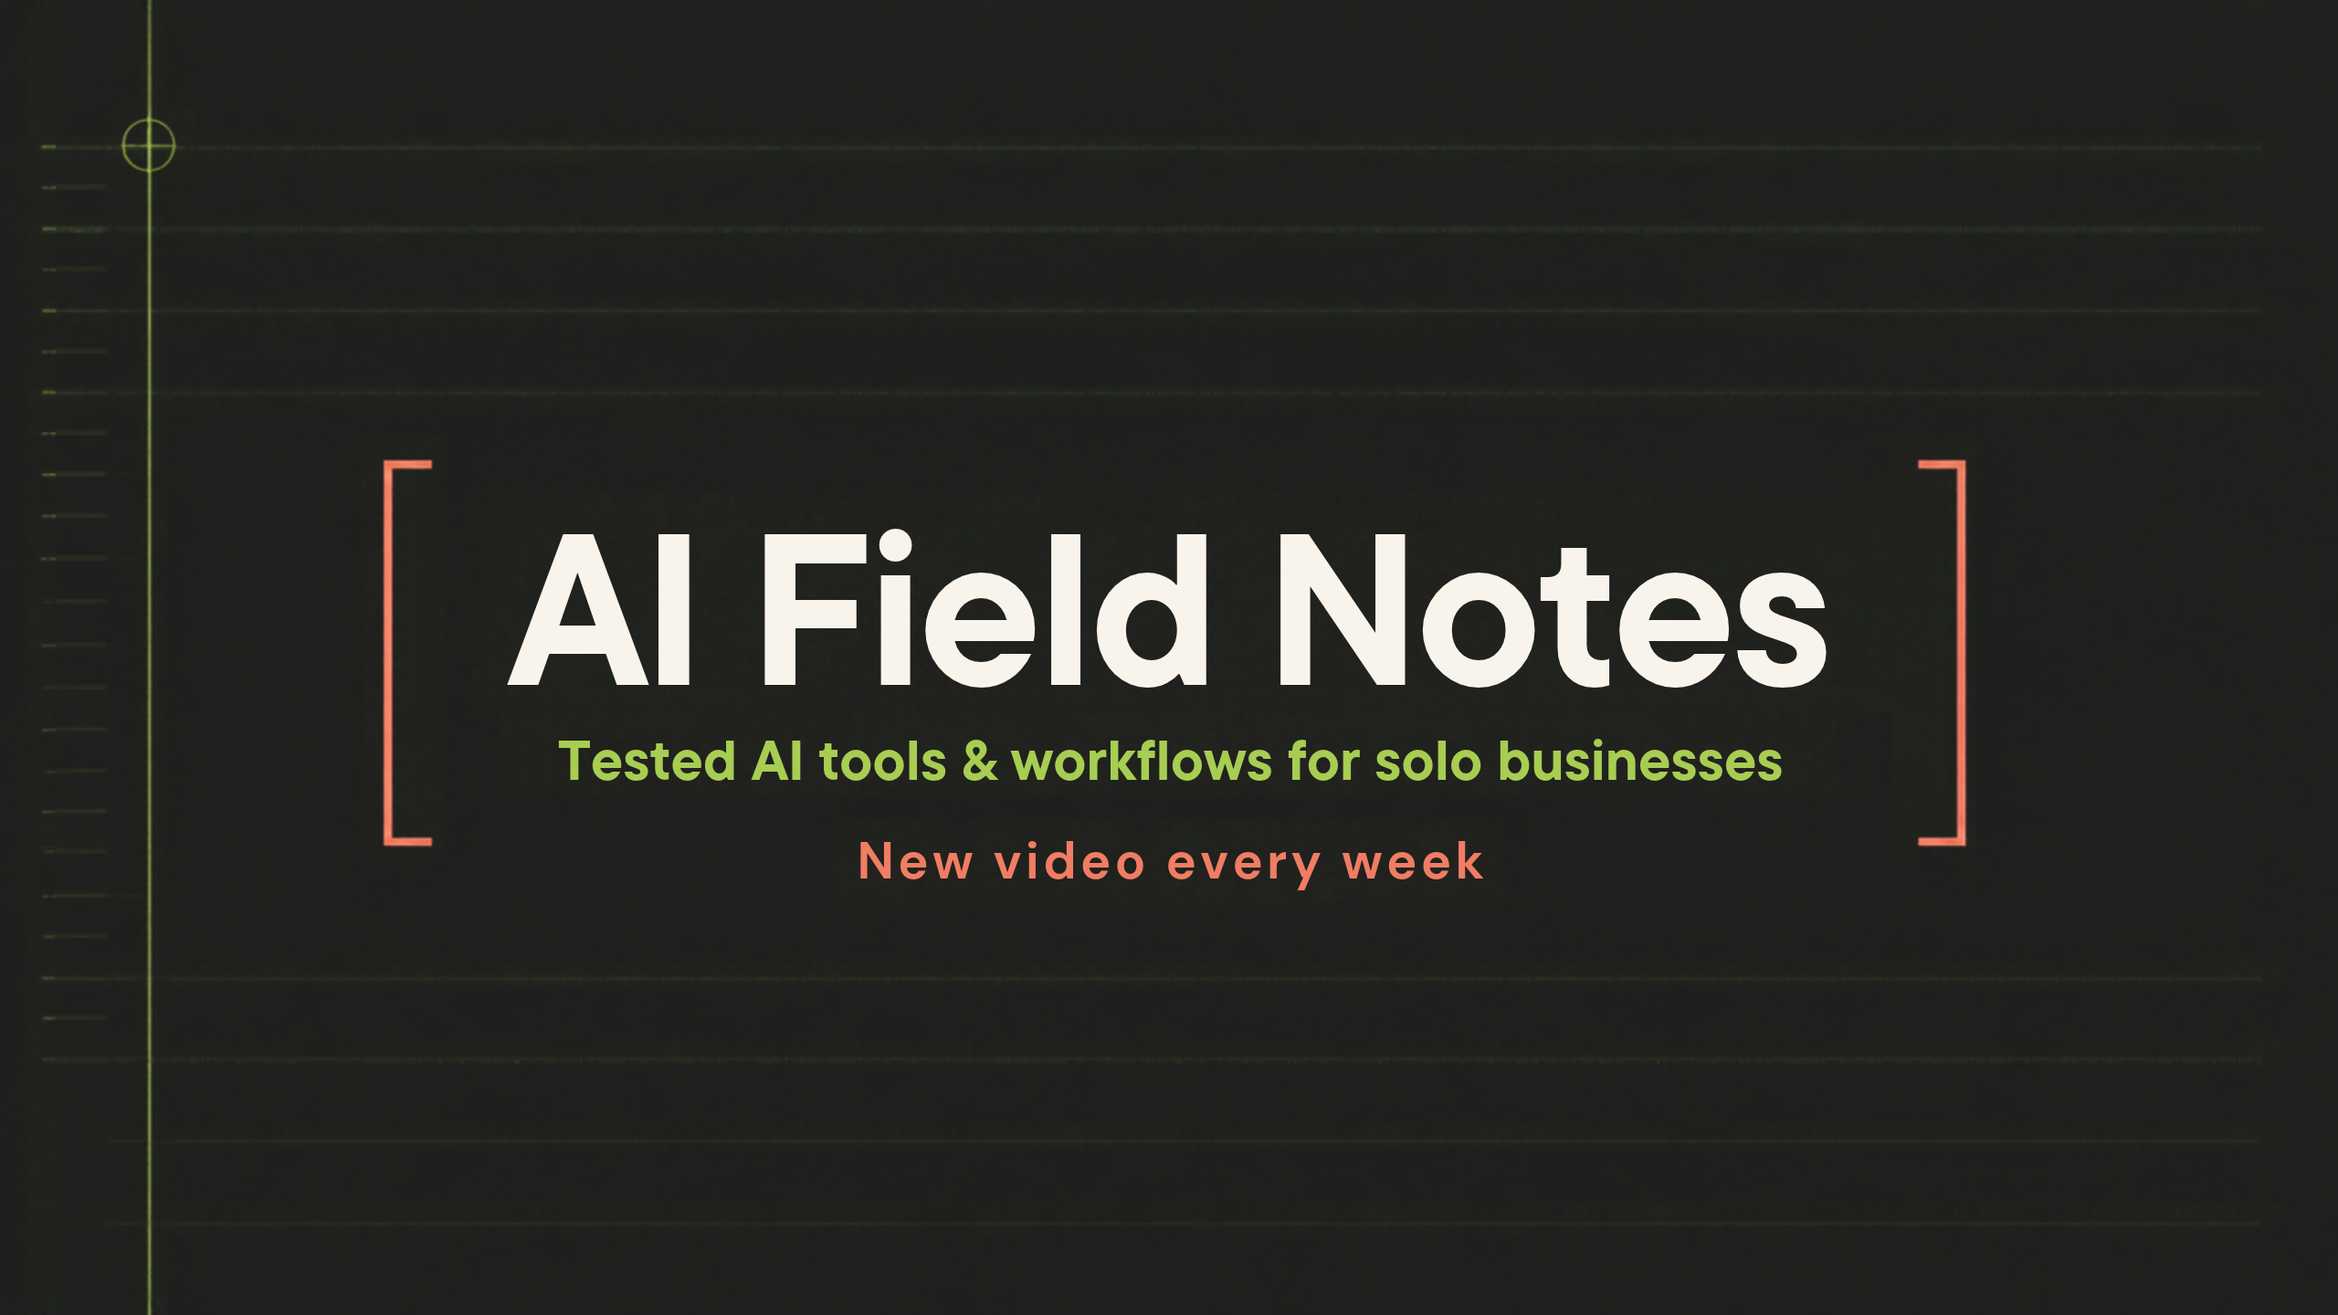
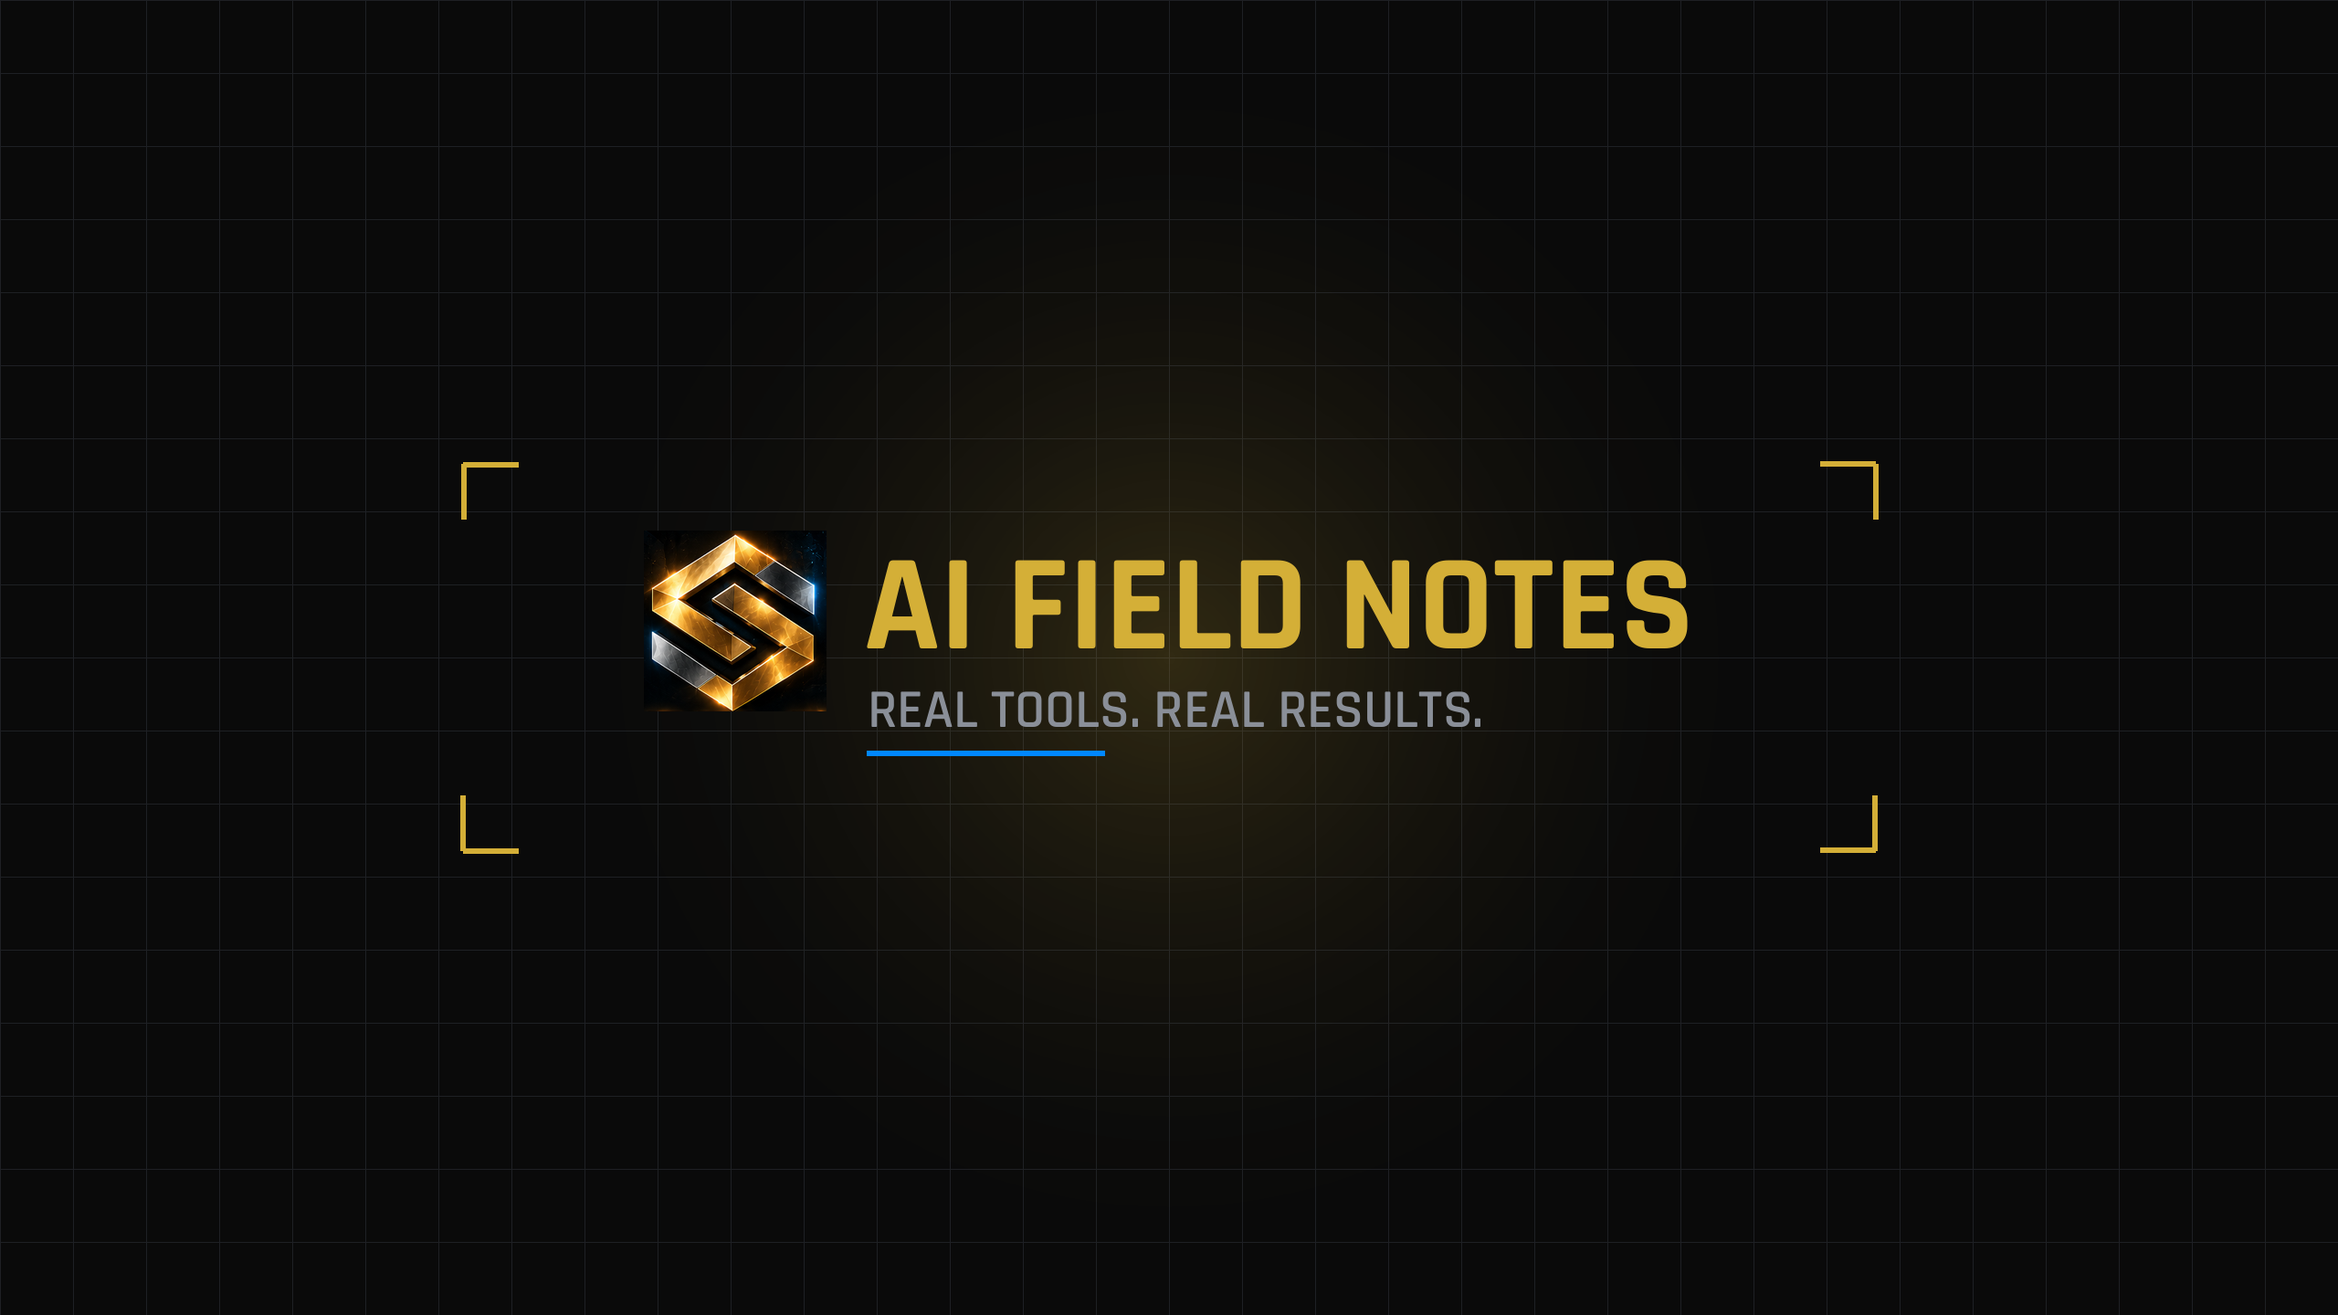
Rebrand the video factory and channel art to the SOLO brand lock
All channel content now uses the approved palette (charcoal, steel, gold,
electric blue), Rajdhani/Inter type and the approved business emblem
(only ever scaled down). Montra Bold is used automatically once its font
file is supplied. Replaces the lime/coral banner and profile picture.

Claude-Session: https://claude.ai/code/session_01XzpsdvXYS5fNBbXZsotX7v

diff --git a/marketing/youtube/factory/render.py b/marketing/youtube/factory/render.py
@@ -52,13 +52,20 @@ GAP_SECONDS = 0.18          # pause between segments
 TAIL_SECONDS = 0.6          # hold on the last frame
 CAPTION_WORDS = 4           # words shown per caption chunk
 
-BG = (24, 25, 28)
-RULE = (38, 40, 44)
-MARGIN = (90, 52, 46)
-INK = (246, 243, 236)
-DIM = (150, 150, 146)
-LIME = (184, 230, 62)
-CORAL = (247, 104, 84)
+# SOLO brand lock palette (ai-download-center/docs/SOLO-BRAND-LOCK.md):
+# charcoal #0A0A0A, weathered steel #8A8F98, burnished gold #D4AF37,
+# restrained electric blue #0087FF. INK is the light text colour for contrast.
+BG = (10, 10, 10)
+RULE = (30, 32, 36)          # faint steel grid
+INK = (238, 238, 234)
+DIM = (138, 143, 152)        # weathered steel
+GOLD = (212, 175, 55)
+BLUE = (0, 135, 255)
+GOLD_DARK = (58, 48, 15)     # caption highlight behind the gold word
+
+# Approved business emblem: a small source crop (285x282), so it is only ever
+# scaled down, never enlarged. See docs/SOLO-BRAND-LOCK.md.
+EMBLEM = HERE.parents[2] / "powerhouse-website" / "assets" / "approved-stage" / "business-emblem.png"
 
 DEFAULT_VOICE = HERE / ".cache" / "voices" / "en_US-joe-medium.onnx"
 FONT_DIRS = [Path("/usr/share/fonts/opentype/inter"), HERE / ".cache" / "fonts"]
@@ -69,14 +76,27 @@ def find_font(name: str) -> str:
         p = d / name
         if p.exists():
             return str(p)
-    sys.exit(f"Font {name} not found. Install Inter (see README.md).")
+    sys.exit(f"Font {name} not found. Run setup.sh (Inter and Rajdhani, see README.md).")
 
 
-F_BRAND = ImageFont.truetype(find_font("Inter-Bold.otf"), 40)
-F_PILLAR = ImageFont.truetype(find_font("Inter-SemiBold.otf"), 34)
-F_HEAD = ImageFont.truetype(find_font("InterDisplay-Bold.otf"), 104)
-F_CAP = ImageFont.truetype(find_font("Inter-Bold.otf"), 66)
+# Brand type: headline Montra Bold (no font file available yet, so Rajdhani
+# Bold stands in), subheading Rajdhani SemiBold, body Inter.
+HEAD_FONT = next((n for n in ("Montra-Bold.otf", "Montra-Bold.ttf", "Montra Bold.otf")
+                  if any((d / n).exists() for d in FONT_DIRS)), "Rajdhani-Bold.ttf")
+F_BRAND = ImageFont.truetype(find_font("Rajdhani-Bold.ttf"), 46)
+F_PILLAR = ImageFont.truetype(find_font("Rajdhani-SemiBold.ttf"), 38)
+F_HEAD = ImageFont.truetype(find_font(HEAD_FONT), 120)
+F_CAP = ImageFont.truetype(find_font("Inter-SemiBold.otf"), 66)
 F_SMALL = ImageFont.truetype(find_font("Inter-Medium.otf"), 32)
+
+
+def emblem(size: int) -> Image.Image:
+    """The approved business emblem, scaled down to fit a size x size box."""
+    img = Image.open(EMBLEM).convert("RGBA")
+    if size > max(img.size):
+        size = max(img.size)       # never enlarge the source crop
+    img.thumbnail((size, size), Image.LANCZOS)
+    return img
 
 
 def apply_format(name: str) -> None:
@@ -86,8 +106,8 @@ def apply_format(name: str) -> None:
         sys.exit(f"Unknown format {name!r}; use one of {sorted(FORMATS)}")
     L = FORMATS[name]
     W, H = L["size"]
-    F_HEAD = ImageFont.truetype(find_font("InterDisplay-Bold.otf"), L["head"])
-    F_CAP = ImageFont.truetype(find_font("Inter-Bold.otf"), L["cap"])
+    F_HEAD = ImageFont.truetype(find_font(HEAD_FONT), int(L["head"] * 1.15))
+    F_CAP = ImageFont.truetype(find_font("Inter-SemiBold.otf"), L["cap"])
 
 
 @dataclass
@@ -130,14 +150,23 @@ def wrap(draw: ImageDraw.ImageDraw, text: str, font: ImageFont.FreeTypeFont, wid
 def background(pillar: str) -> Image.Image:
     img = Image.new("RGB", (W, H), BG)
     d = ImageDraw.Draw(img)
-    for y in range(L["rule_top"], H - L["rule_bottom"], 72):   # ruled notebook lines
-        d.line([(60, y), (W - 60, y)], fill=RULE, width=2)
-    d.line([(118, L["rule_top"] - 60), (118, H - L["rule_bottom"] + 20)], fill=MARGIN, width=3)  # margin line
+    top, bottom = L["rule_top"] - 40, H - L["rule_bottom"] + 20
+    for y in range(top, bottom, 72):            # faint industrial grid
+        d.line([(60, y), (W - 60, y)], fill=RULE, width=1)
+    for x in range(60, W - 59, 72):
+        d.line([(x, top), (x, bottom)], fill=RULE, width=1)
+    k = 46                                      # gold corner brackets
+    for (x, y, sx, sy) in [(60, top, 1, 1), (W - 60, top, -1, 1), (60, bottom, 1, -1), (W - 60, bottom, -1, -1)]:
+        d.line([(x, y), (x + sx * k, y)], fill=GOLD, width=4)
+        d.line([(x, y), (x, y + sy * k)], fill=GOLD, width=4)
     by = L["brand_y"]
-    d.text((150, by), "AI FIELD NOTES", font=F_BRAND, fill=LIME)
+    mark = emblem(64)
+    img.paste(mark, (90, by - 10), mark)
+    d.text((90 + mark.width + 18, by - 2), "AI FIELD NOTES", font=F_BRAND, fill=GOLD)
     pw = d.textlength(pillar.upper(), font=F_PILLAR)
-    d.rounded_rectangle([W - 90 - pw - 36, by - 8, W - 90, by + 52], radius=30, outline=CORAL, width=3)
-    d.text((W - 90 - pw - 18, by + 2), pillar.upper(), font=F_PILLAR, fill=CORAL)
+    d.rectangle([W - 90 - pw - 36, by - 6, W - 90, by + 50], outline=DIM, width=2)
+    d.line([(W - 90 - pw - 36, by + 50), (W - 90, by + 50)], fill=BLUE, width=4)
+    d.text((W - 90 - pw - 18, by), pillar.upper(), font=F_PILLAR, fill=INK)
     return img
 
 
@@ -147,7 +176,7 @@ def glow_layer(size: int = 900, peak: int = 34) -> Image.Image:
     ys, xs = np.mgrid[0:size, 0:size]
     dist = np.sqrt((xs - r) ** 2 + (ys - r) ** 2) / r
     alpha = (np.clip(1 - dist, 0, 1) ** 2 * peak).astype(np.uint8)
-    layer = Image.new("RGBA", (size, size), LIME + (0,))
+    layer = Image.new("RGBA", (size, size), GOLD + (0,))
     layer.putalpha(Image.fromarray(alpha, "L"))
     return layer
 
@@ -155,7 +184,7 @@ def glow_layer(size: int = 900, peak: int = 34) -> Image.Image:
 def headline_layer(text: str) -> Image.Image:
     layer = Image.new("RGBA", (W, H), (0, 0, 0, 0))
     d = ImageDraw.Draw(layer)
-    lines = wrap(d, text, F_HEAD, W - L["head_w"])
+    lines = wrap(d, text.upper(), F_HEAD, W - L["head_w"])
     lh = L["head_lh"]
     top = L["head_y"] - (len(lines) * lh) // 2
     for i, line in enumerate(lines):
@@ -202,8 +231,8 @@ def draw_caption(d: ImageDraw.ImageDraw, words: list[tuple[str, float]], now: fl
         for i in line:
             active = start + i == idx
             if active:
-                d.rounded_rectangle([x - 12, y - 6, x + widths[i] + 12, y + L["cap"] + 16], radius=14, fill=(52, 60, 30))
-            d.text((x, y), texts[i], font=F_CAP, fill=LIME if active else INK)
+                d.rounded_rectangle([x - 12, y - 6, x + widths[i] + 12, y + L["cap"] + 16], radius=14, fill=GOLD_DARK)
+            d.text((x, y), texts[i], font=F_CAP, fill=GOLD if active else INK)
             x += widths[i] + space
         y += L["cap_lh"]
 
@@ -216,34 +245,41 @@ def stamp(seconds: float) -> str:
 
 
 def thumbnail(spec: dict, pillar: str) -> Image.Image:
-    """1280x720 thumbnail in the channel style: dark, one big phrase, lime and coral."""
+    """1280x720 thumbnail in the SOLO brand: charcoal, steel grid, gold headline, blue tag."""
     tw, th = 1280, 720
     img = Image.new("RGB", (tw, th), BG)
     d = ImageDraw.Draw(img)
-    for y in range(120, th - 40, 64):
-        d.line([(40, y), (tw - 40, y)], fill=RULE, width=2)
-    d.line([(96, 80), (96, th - 40)], fill=MARGIN, width=3)
-    glow = glow_layer(820, 60)
-    img.paste(glow, (tw - 760, -120), glow)
+    for y in range(40, th - 39, 64):
+        d.line([(40, y), (tw - 40, y)], fill=RULE, width=1)
+    for x in range(40, tw - 39, 64):
+        d.line([(x, 40), (x, th - 40)], fill=RULE, width=1)
+    glow = glow_layer(900, 46)
+    img.paste(glow, (tw - 820, -180), glow)
     d = ImageDraw.Draw(img)
-    f_kick = ImageFont.truetype(find_font("Inter-Bold.otf"), 34)
-    d.text((130, 56), spec.get("kicker", pillar).upper(), font=f_kick, fill=CORAL)
+    k = 54
+    for (x, y, sx, sy) in [(40, 40, 1, 1), (tw - 40, 40, -1, 1), (40, th - 40, 1, -1), (tw - 40, th - 40, -1, -1)]:
+        d.line([(x, y), (x + sx * k, y)], fill=GOLD, width=6)
+        d.line([(x, y), (x, y + sy * k)], fill=GOLD, width=6)
+    mark = emblem(84)
+    img.paste(mark, (96, 74), mark)
+    f_kick = ImageFont.truetype(find_font("Rajdhani-SemiBold.ttf"), 40)
+    d.text((96 + mark.width + 22, 92), spec.get("kicker", pillar).upper(), font=f_kick, fill=DIM)
     words = spec["text"].upper().split()
-    size = 200
-    while size > 80:
-        f = ImageFont.truetype(find_font("InterDisplay-Black.otf"), size)
-        lines = wrap(d, " ".join(words), f, tw - 260)
-        if len(lines) <= 2 and len(lines) * size * 1.05 <= th - 260:
+    size = 230
+    while size > 90:
+        f = ImageFont.truetype(find_font(HEAD_FONT), size)
+        lines = wrap(d, " ".join(words), f, tw - 220)
+        if len(lines) <= 2 and len(lines) * size * 0.95 <= th - 300:
             break
         size -= 8
-    y = (th - len(lines) * size * 1.05) / 2 + 30
+    y = (th - len(lines) * size * 0.95) / 2 + 20
     for i, line in enumerate(lines):
-        d.text((130, y + i * size * 1.05), line, font=f, fill=LIME if i == len(lines) - 1 else INK)
+        d.text((96, y + i * size * 0.95), line, font=f, fill=GOLD if i == len(lines) - 1 else INK)
     if spec.get("tag"):
-        f_tag = ImageFont.truetype(find_font("Inter-Bold.otf"), 40)
+        f_tag = ImageFont.truetype(find_font("Rajdhani-Bold.ttf"), 46)
         tw2 = d.textlength(spec["tag"].upper(), font=f_tag)
-        d.rounded_rectangle([130, th - 120, 130 + tw2 + 48, th - 52], radius=34, fill=CORAL)
-        d.text((154, th - 112), spec["tag"].upper(), font=f_tag, fill=BG)
+        d.rectangle([96, th - 136, 96 + tw2 + 48, th - 70], fill=BLUE)
+        d.text((120, th - 134), spec["tag"].upper(), font=f_tag, fill=INK)
     return img
 
 
@@ -324,13 +360,13 @@ def render_video(spec: dict, out_dir: Path, voice: Path, piper: str) -> Path:
             frame.paste(layer, (hx, hy + int(40 * (1 - ease))), layer)
             d = ImageDraw.Draw(frame)
             step = (chapter_of[si] or "").upper() if chapter_of[si] else f"{si + 1} / {len(segs)}"
-            d.text(((W - d.textlength(step, font=F_PILLAR)) / 2, L["step_y"]), step, font=F_PILLAR, fill=CORAL)
+            d.text(((W - d.textlength(step, font=F_PILLAR)) / 2, L["step_y"]), step, font=F_PILLAR, fill=BLUE)
             if now <= seg.start + seg.duration + GAP_SECONDS:
                 draw_caption(d, words[si], now)
             # progress bar
             by = L["bar_y"]
             d.rounded_rectangle([150, by, W - 150, by + 12], radius=6, fill=RULE)
-            d.rounded_rectangle([150, by, 150 + (W - 300) * min(1.0, now / total), by + 12], radius=6, fill=LIME)
+            d.rounded_rectangle([150, by, 150 + (W - 300) * min(1.0, now / total), by + 12], radius=6, fill=GOLD)
             d.text((150, by + 30), spec.get("footer", "Follow for daily AI field notes"), font=F_SMALL, fill=DIM)
             ff.stdin.write(frame.tobytes())
             if cover is None and now >= min(0.6, segs[0].duration):

diff --git a/marketing/youtube/factory/README.md b/marketing/youtube/factory/README.md
@@ -3,7 +3,7 @@
 This turns a JSON script into finished videos (H.264, AAC): vertical 1080×1920 for YouTube Shorts, TikTok and Instagram Reels, or landscape 1920×1080 for long-form YouTube. Everything runs locally: no paid video credits and no cloud voice service.
 
 Each video has:
-- a notebook-style background in the brand colours (charcoal, lime, coral)
+- the SOLO brand look (`docs/SOLO-BRAND-LOCK.md`): charcoal background with a faint steel grid, gold corner brackets and highlights, an electric-blue accent, the approved business emblem (only ever scaled down), Rajdhani headlines and Inter captions
 - a headline for each segment that fades in, with a step counter
 - word-by-word captions with the current word highlighted (most Shorts viewers watch with the sound off)
 - a progress bar and a follow prompt
@@ -17,7 +17,7 @@ cd marketing/youtube/factory
 ./setup.sh
 ```
 
-This needs `ffmpeg`, Python 3.10+ and the Inter font. `setup.sh` creates `.cache/venv` and downloads two voices into `.cache/voices/`:
+This needs `ffmpeg`, Python 3.10+ and the Inter font. `setup.sh` also downloads the Rajdhani brand font. Montra Bold, the brand headline font, isn't freely downloadable: put `Montra-Bold.otf` in `.cache/fonts/` and the renderer uses it automatically. `setup.sh` creates `.cache/venv` and downloads two voices into `.cache/voices/`:
 
 | Voice | Licence of the training data | Notes |
 |---|---|---|
@@ -67,7 +67,7 @@ Add an object to a batch file in `videos/`:
 Add `"format": "landscape"` to a video to render it at 1920×1080 in the same style. Two optional fields help with long videos:
 
 - `"chapter"` on a segment starts a YouTube chapter there. The chapter name replaces the step counter on screen, and the renderer writes real timestamps into the metadata file. Put `{chapters}` in the description and it's replaced with the timed chapter list, so chapters never need re-timing by hand. YouTube needs the first chapter at 0:00, at least three chapters, and each at least 10 seconds long.
-- `"thumbnail": {"text": "Move 37", "kicker": "Series · Episode 1", "tag": "1 in 10,000"}` makes a 1280×720 `<id>-thumb.png`: big text (3 words at most), kicker in coral, optional coral tag. The channel kit prefers your real face on long-form thumbnails, so treat these as stand-ins.
+- `"thumbnail": {"text": "Move 37", "kicker": "Series · Episode 1", "tag": "1 in 10,000"}` makes a 1280×720 `<id>-thumb.png` in the brand: emblem, steel kicker, big gold headline (3 words at most), optional electric-blue tag. The channel kit prefers your real face on long-form thumbnails, so treat these as stand-ins.
 
 `videos/ai-turning-points.json` holds the four-episode *AI Turning Points* series (about 9–10 minutes each). Each one takes roughly 10 minutes to render on 4 CPU cores.
 

diff --git a/youtube-channel-kit.md b/youtube-channel-kit.md
@@ -68,7 +68,8 @@ A breakout shows that a video did well. It doesn't prove why, or that the same t
 ## Brand direction
 
 - **Voice:** direct, practical, skeptical but fair. Talk like a sole trader helping another sole trader.
-- **Thumbnails:** your real face, one object or tool, at most 3 words, solid dark background, lime/coral accents. Never use an AI-generated face in place of yours, and never use a company's logo in a way that implies a partnership.
+- **Brand (owner's instruction, 20 Nov 2026):** every video, Short, thumbnail and piece of channel art uses the SOLO brand lock (`docs/SOLO-BRAND-LOCK.md`): charcoal `#0A0A0A`, weathered steel `#8A8F98`, burnished gold `#D4AF37`, restrained electric blue `#0087FF`; headlines in Montra Bold (Rajdhani Bold until the font file is supplied), subheadings in Rajdhani SemiBold, body in Inter; the approved angular-S business emblem, never enlarged. The earlier lime/coral "AI Field Notes" look is retired.
+- **Thumbnails:** your real face, one object or tool, at most 3 words, charcoal background, gold headline, electric-blue accent. Never use an AI-generated face in place of yours, and never use a company's logo in a way that implies a partnership. The three drafts in `marketing/youtube/thumbnails/` predate the brand rule (lime/coral, an AI-generated face and a third-party logo): don't use them; remake them with your photo.
 - **Visuals:** real screen capture, readable model names, sources on screen.
 
 ## First 10 videos
